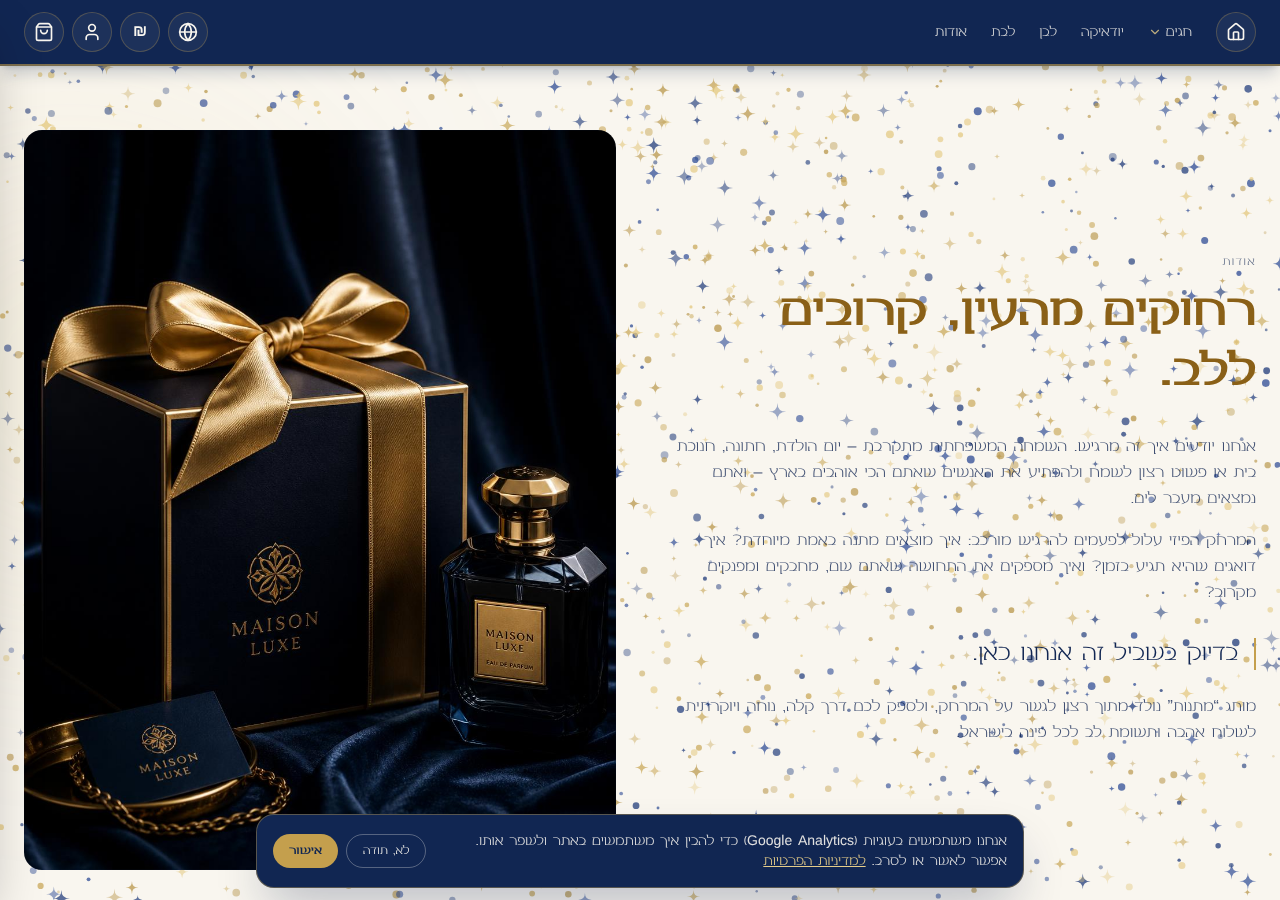
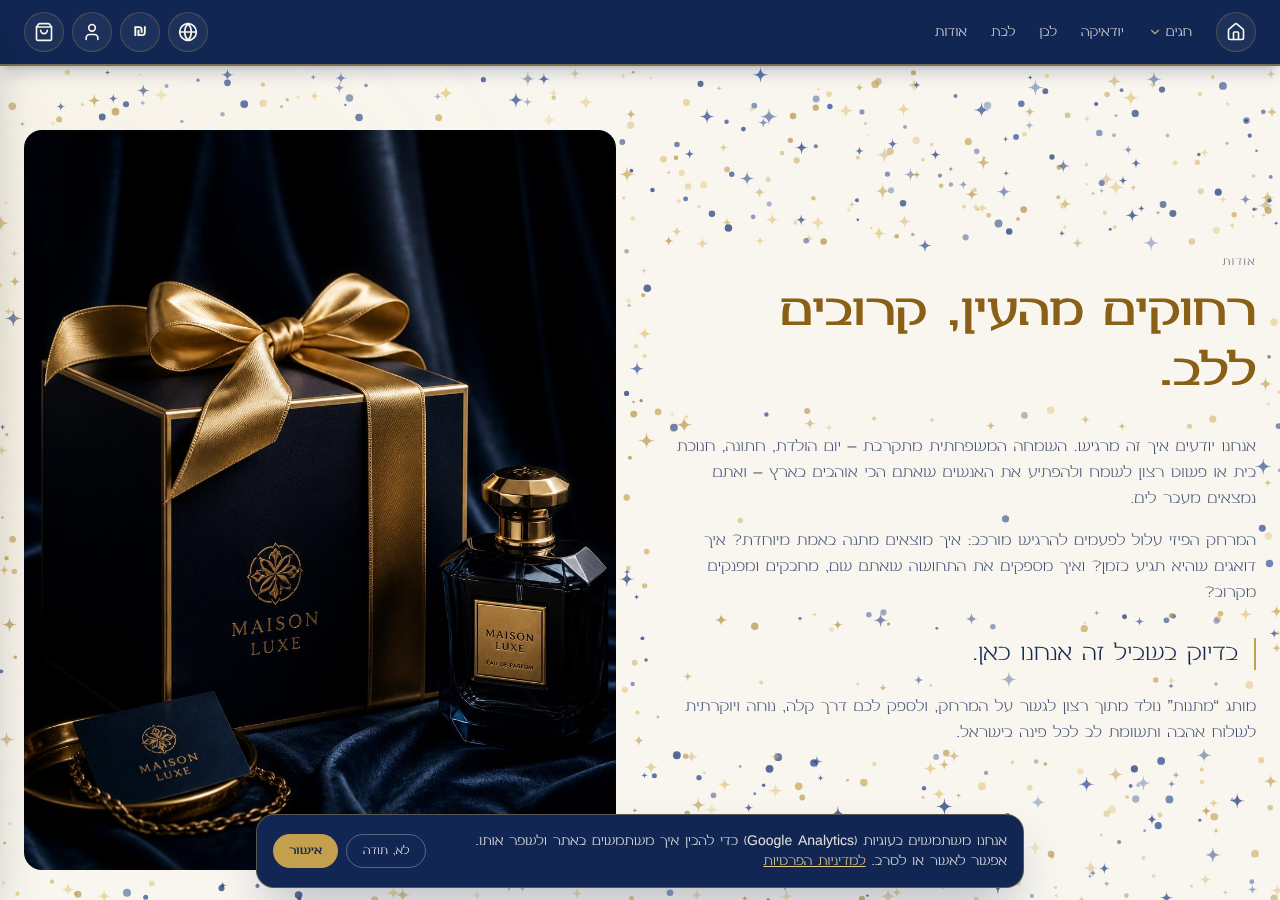
Quiet background behind text: no sparkles under headings, paragraphs and panels
Claude-Session: https://claude.ai/code/session_01SmUGKsZvrdxARKCYR8tLTK

diff --git a/src/components/Sparkles.tsx b/src/components/Sparkles.tsx
@@ -4,6 +4,10 @@ import { useEffect, useRef } from "react";
 // sparkles away; clicking on the background (not on a button or link) pops
 // the ones under it. A page reload brings them all back.
 const COLORS = ["#c9a85a", "#e3c77d", "#b8964a", "#1f3a7a", "#2c4a94"];
+// Text and panels keep a quiet background: no sparkles are drawn behind them.
+const QUIET =
+  "main h1, main h2, main h3, main h4, main p, main li, main label, main dt, main dd, main blockquote, main .rounded-2xl, main .rounded-3xl, main .rounded-\\[2rem\\], footer, header";
+const QUIET_PAD = 6;
 const INTERACTIVE = "a,button,input,textarea,select,label,summary,[role=button],[role=dialog]";
 
 type Sparkle = {
@@ -31,6 +35,24 @@ export function Sparkles() {
     let h = 0;
     let sparkles: Sparkle[] = [];
     const pointer = { x: -1e4, y: -1e4 };
+    let quiet: { l: number; t: number; r: number; b: number }[] = [];
+    let quietDirty = true;
+    const measureQuiet = () => {
+      quietDirty = false;
+      quiet = [];
+      for (const el of document.querySelectorAll(QUIET)) {
+        const r = el.getBoundingClientRect();
+        if (r.width === 0 || r.bottom < 0 || r.top > h || r.right < 0 || r.left > w) continue;
+        quiet.push({
+          l: r.left - QUIET_PAD,
+          t: r.top - QUIET_PAD,
+          r: r.right + QUIET_PAD,
+          b: r.bottom + QUIET_PAD,
+        });
+      }
+    };
+    const inQuiet = (x: number, y: number) =>
+      quiet.some((q) => x > q.l && x < q.r && y > q.t && y < q.b);
 
     const make = (): Sparkle => ({
       x: Math.random() * w,
@@ -77,6 +99,7 @@ export function Sparkles() {
 
     let raf = 0;
     const frame = (t: number) => {
+      if (quietDirty) measureQuiet();
       ctx.clearRect(0, 0, w, h);
       for (const s of sparkles) {
         // Push away from the pointer, then ease back to rest.
@@ -102,6 +125,7 @@ export function Sparkles() {
           r = s.r * (1 + s.pop * 2.5);
           alpha = Math.max(0, 1 - s.pop);
         }
+        if (s.pop === 0 && inQuiet(s.x + s.dx, s.y + s.dy)) continue;
         ctx.globalAlpha = alpha;
         ctx.fillStyle = s.color;
         const x = s.x + s.dx;
@@ -147,6 +171,13 @@ export function Sparkles() {
     resize();
     raf = requestAnimationFrame(frame);
     window.addEventListener("resize", resize);
+    // Text moves with scrolling and page changes; re-measure then, and now and then.
+    const markQuiet = () => {
+      quietDirty = true;
+    };
+    window.addEventListener("scroll", markQuiet, { passive: true, capture: true });
+    window.addEventListener("resize", markQuiet);
+    const quietTimer = window.setInterval(markQuiet, 700);
     window.addEventListener("pointermove", onMove, { passive: true });
     window.addEventListener("pointerdown", onDown, { passive: true });
     document.addEventListener("pointerleave", onLeave);
@@ -154,6 +185,9 @@ export function Sparkles() {
     return () => {
       cancelAnimationFrame(raf);
       window.removeEventListener("resize", resize);
+      window.removeEventListener("scroll", markQuiet, { capture: true });
+      window.removeEventListener("resize", markQuiet);
+      window.clearInterval(quietTimer);
       window.removeEventListener("pointermove", onMove);
       window.removeEventListener("pointerdown", onDown);
       document.removeEventListener("pointerleave", onLeave);
